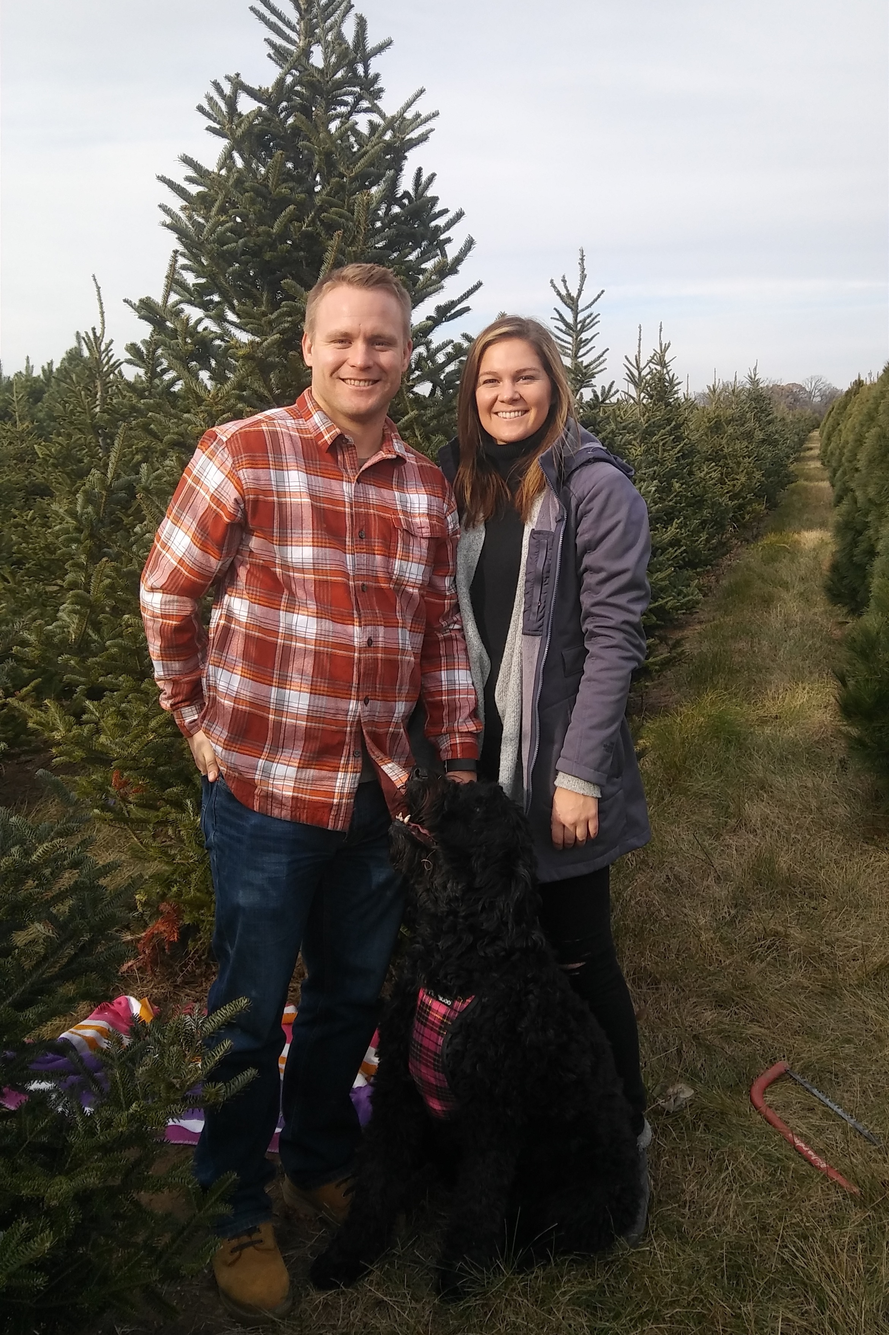
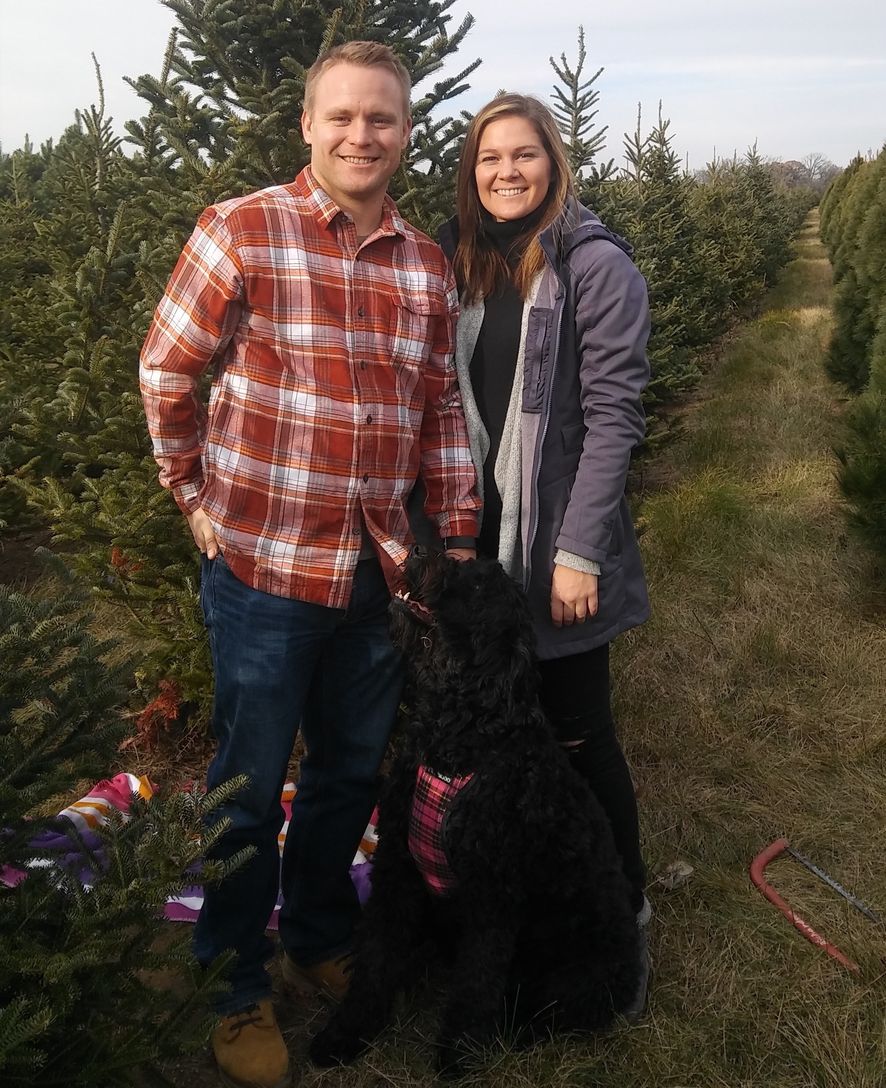
better carousel styling

diff --git a/bigday/templates/partials/footer.html b/bigday/templates/partials/footer.html
@@ -1,15 +1,17 @@
-<section id="contact" class="bg-dark">
-    <div class="container">
-        <div class="row">
-            <div class="col-lg-8 col-lg-offset-2 text-center">
-                <h2 class="section-heading">Contact us!</h2>
-                <hr class="primary">
-                <p>If you have any questions don't hesitate to reach out!</p>
-            </div>
-            <div class="col-lg-8 col-lg-offset-2 text-center">
-                <i class="fa fa-envelope-o fa-3x wow bounceIn" data-wow-delay=".1s"></i>
-                <p><a href="mailto:{{ support_email }}">{{ support_email }}</a></p>
+<footer id="footer">
+    <section id="contact" class="bg-dark">
+        <div class="container">
+            <div class="row">
+                <div class="col-lg-8 col-lg-offset-2 text-center">
+                    <h2 class="section-heading">Contact us!</h2>
+                    <hr class="primary">
+                    <p>If you have any questions don't hesitate to reach out!</p>
+                </div>
+                <div class="col-lg-8 col-lg-offset-2 text-center">
+                    <i class="fa fa-envelope-o fa-3x wow bounceIn" data-wow-delay=".1s"></i>
+                    <p><a href="mailto:{{ support_email }}">{{ support_email }}</a></p>
+                </div>
             </div>
         </div>
-    </div>
-</section>
+    </section>
+</footer>

diff --git a/bigday/templates/partials/carousel.html b/bigday/templates/partials/carousel.html
@@ -10,15 +10,13 @@
     <li data-target="#myCarousel" data-slide-to="4"></li>
     <li data-target="#myCarousel" data-slide-to="5"></li>
     <li data-target="#myCarousel" data-slide-to="6"></li>
+    <li data-target="#myCarousel" data-slide-to="7"></li>
+    <li data-target="#myCarousel" data-slide-to="8"></li>
   </ol>
 
   <!-- Wrapper for slides -->
   <div class="carousel-inner">
     <div class="item active">
-      <img src="{% static 'bigday/images/carousel/IMG_0010.jpg' %}" alt="Los Angeles" class="img-responsive">
-    </div>
-
-    <div class="item">
       <img src="{% static 'bigday/images/carousel/IMG_0043.jpg' %}" alt="Los Angeles" class="img-responsive">
     </div>
 
@@ -32,6 +30,10 @@
 
     <div class="item">
       <img src="{% static 'bigday/images/carousel/IMG_2294.jpg' %}" alt="Los Angeles" class="img-responsive">
+    </div>
+
+    <div class="item">
+      <img src="{% static 'bigday/images/carousel/IMG_0010.jpg' %}" alt="Los Angeles" class="img-responsive">
     </div>
 
     <div class="item">
@@ -60,4 +62,7 @@
     <span class="glyphicon glyphicon-chevron-right"></span>
     <span class="sr-only">Next</span>
   </a>
+
 </div>
+
+

diff --git a/bigday/templates/base.html b/bigday/templates/base.html
@@ -18,12 +18,6 @@
     <!-- Custom Fonts -->
     <link rel="stylesheet" href="{% static 'font-awesome/css/font-awesome.min.css' %}" type="text/css">
 
-    <!-- HTML5 Shim and Respond.js IE8 support of HTML5 elements and media queries -->
-    <!-- WARNING: Respond.js doesn't work if you view the page via file:// -->
-    <!--[if lt IE 9]>
-        <script src="https://oss.maxcdn.com/libs/html5shiv/3.7.0/html5shiv.js"></script>
-        <script src="https://oss.maxcdn.com/libs/respond.js/1.4.2/respond.min.js"></script>
-    <![endif]-->
     {% include "partials/google-analytics.html" %}
     {% block page_head %}
     {% endblock %}
@@ -45,6 +39,7 @@
             window.onresize = setFooterStyle;
         });
     </script>
+
 {% block page_js %}
 {% endblock %}
 </body>

diff --git a/bigday/static/bigday/css/creative.css b/bigday/static/bigday/css/creative.css
@@ -71,21 +71,6 @@ p {
     color: rgba(255,255,255,.7);
 }
 
-.carousel-inner .carousel-item-right.active,
-.carousel-inner .carousel-item-next {
-  transform: translateX(33.33%);
-}
-
-.carousel-inner .carousel-item-left.active,
-.carousel-inner .carousel-item-prev {
-  transform: translateX(-33.33%)
-}
-
-.carousel-inner .carousel-item-right,
-.carousel-inner .carousel-item-left{
-  transform: translateX(0);
-}
-
 .carousel-inner {
     height: 450px;
     line-height: 450px;
@@ -95,6 +80,14 @@ p {
     height: 450px;
     width: 100%;
     object-fit: contain;
+}
+
+@media(min-width:768px) {
+    .carousel-inner .item img {
+        height: 450px;
+        width: 100%;
+        object-fit: cover;
+    }
 }
 
 section {
